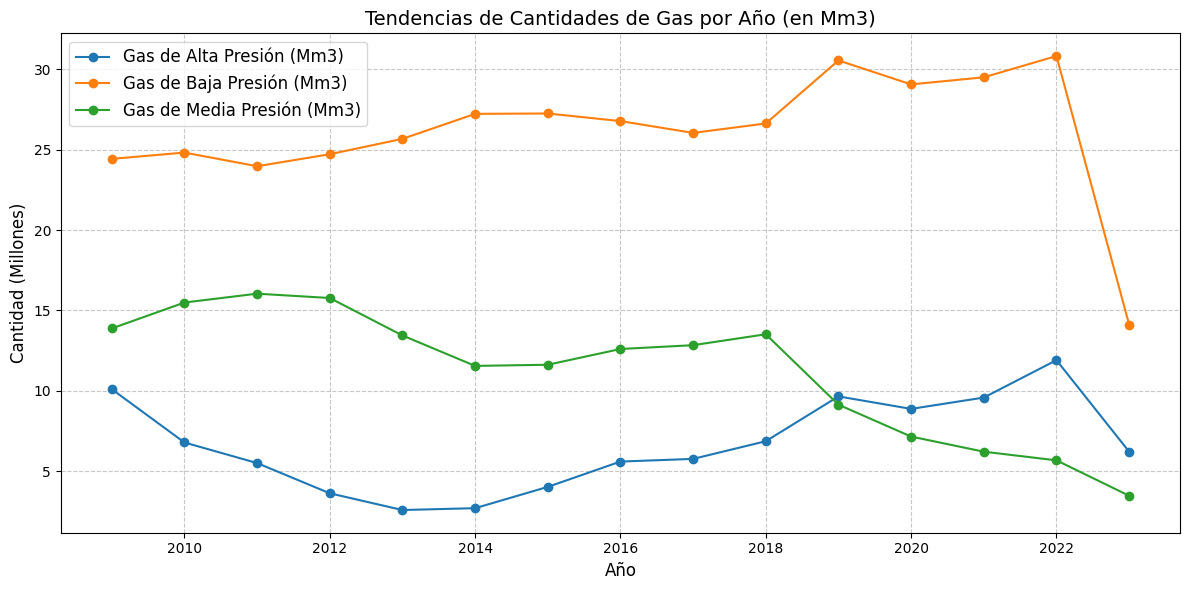
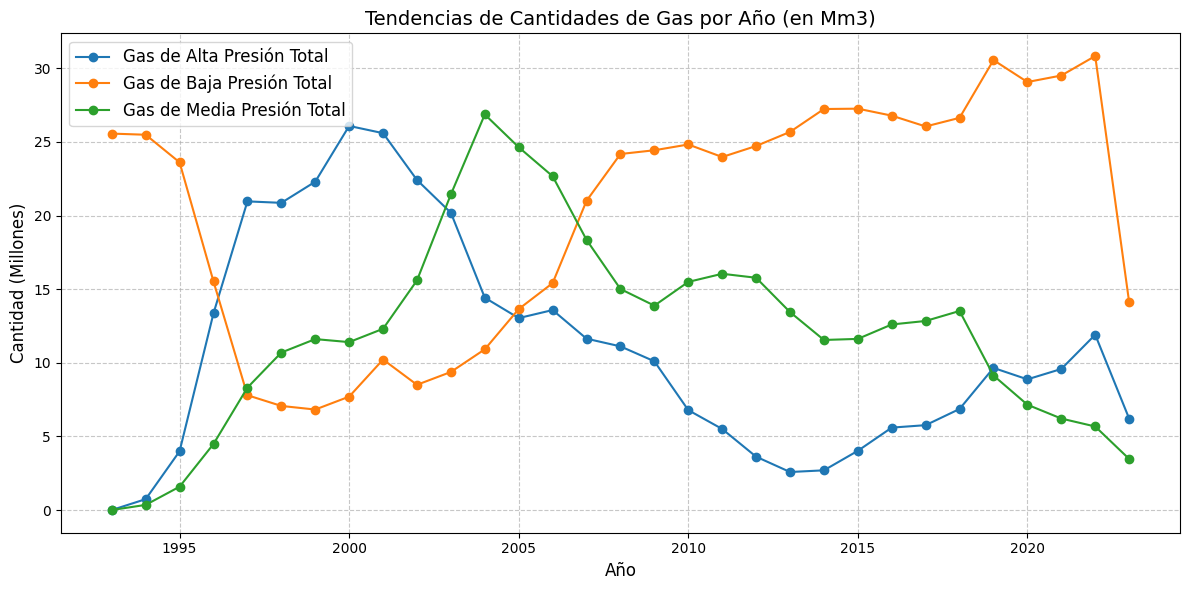
grafico de gas anual ampliado

diff --git a/index.html b/index.html
@@ -173,7 +173,7 @@
 
 <header>
     <h1>Tendencias Anuales de Producción de Petróleo y Gas en Argentina</h1>
-    <p>Análisis de datos del Ministerio de Energía de la Nación Argentina (2006-2023)</p>
+    <p>Análisis de datos del Ministerio de Energía de la Nación Argentina (1993-2023)</p>
 </header>
 
 <section>
